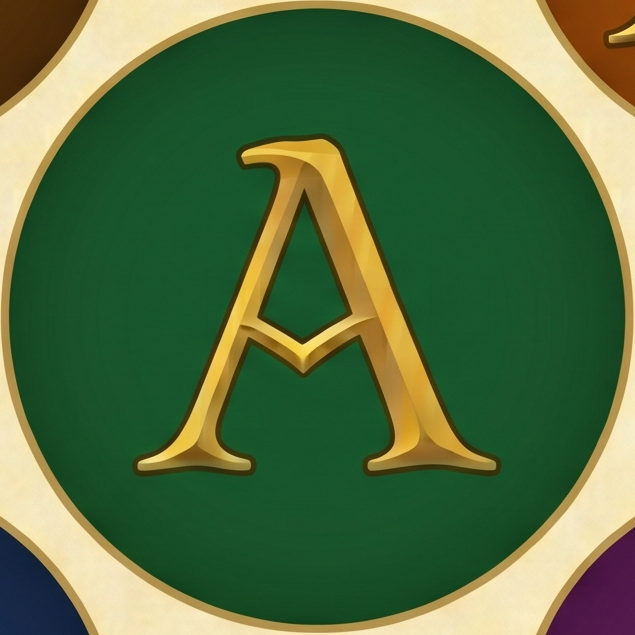
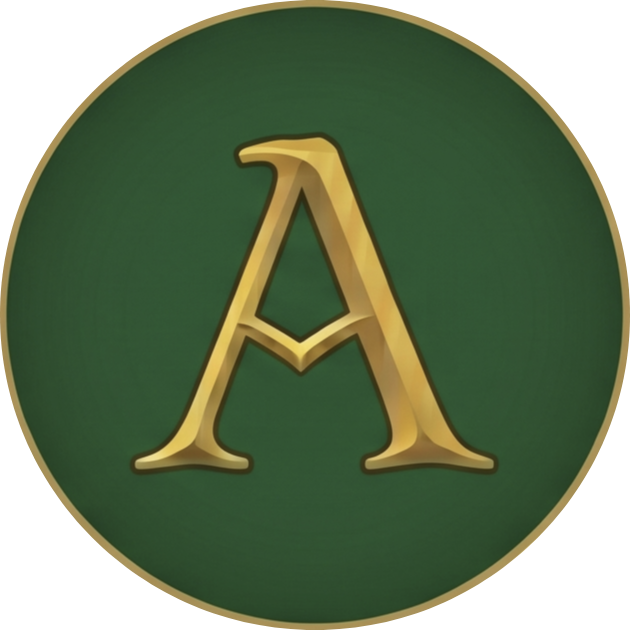
Replacing character images with circle cropped ones

diff --git a/js/marker-placer.js b/js/marker-placer.js
@@ -87,7 +87,7 @@ function showCharacterMarkersAtPositions(positions, svgSelector = 'svg') {
         .attr('height', 32)
         .attr("xlink:href", d => {
             const imgName = (d.character === 'Strider') ? 'Aragorn' : d.character;
-            return `${'data/images/'}${imgName}-modified.png`;
+            return `${'data/images/'}${imgName}.png`;
         })
         .attr('data-character', d => d.character)
         .attr('filter', 'url(#marker-drop-shadow)')
